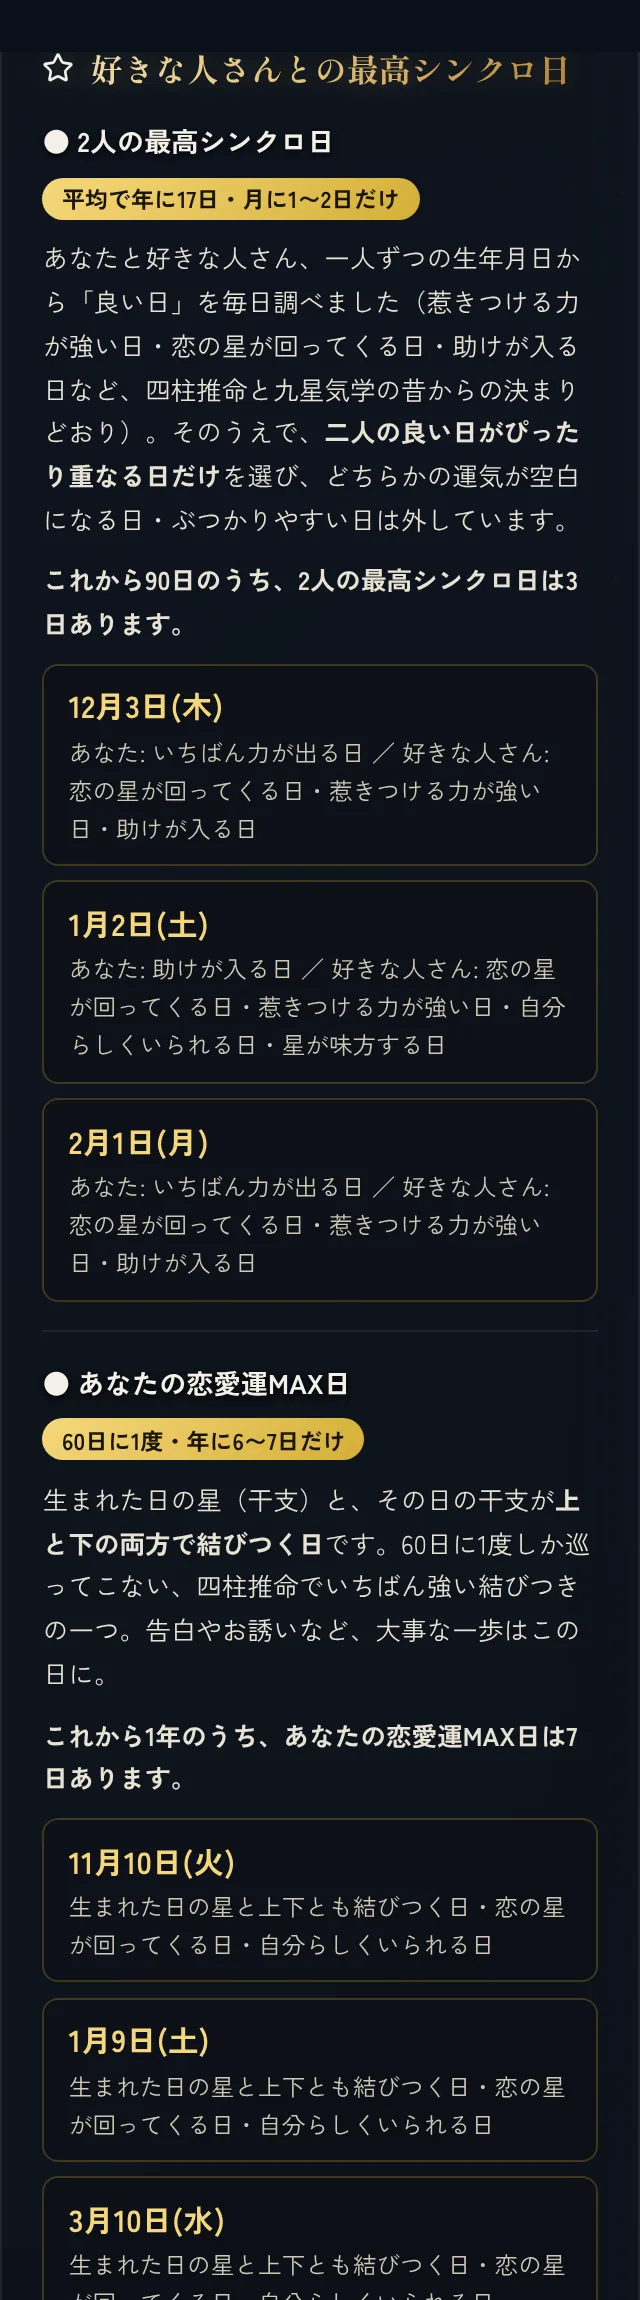
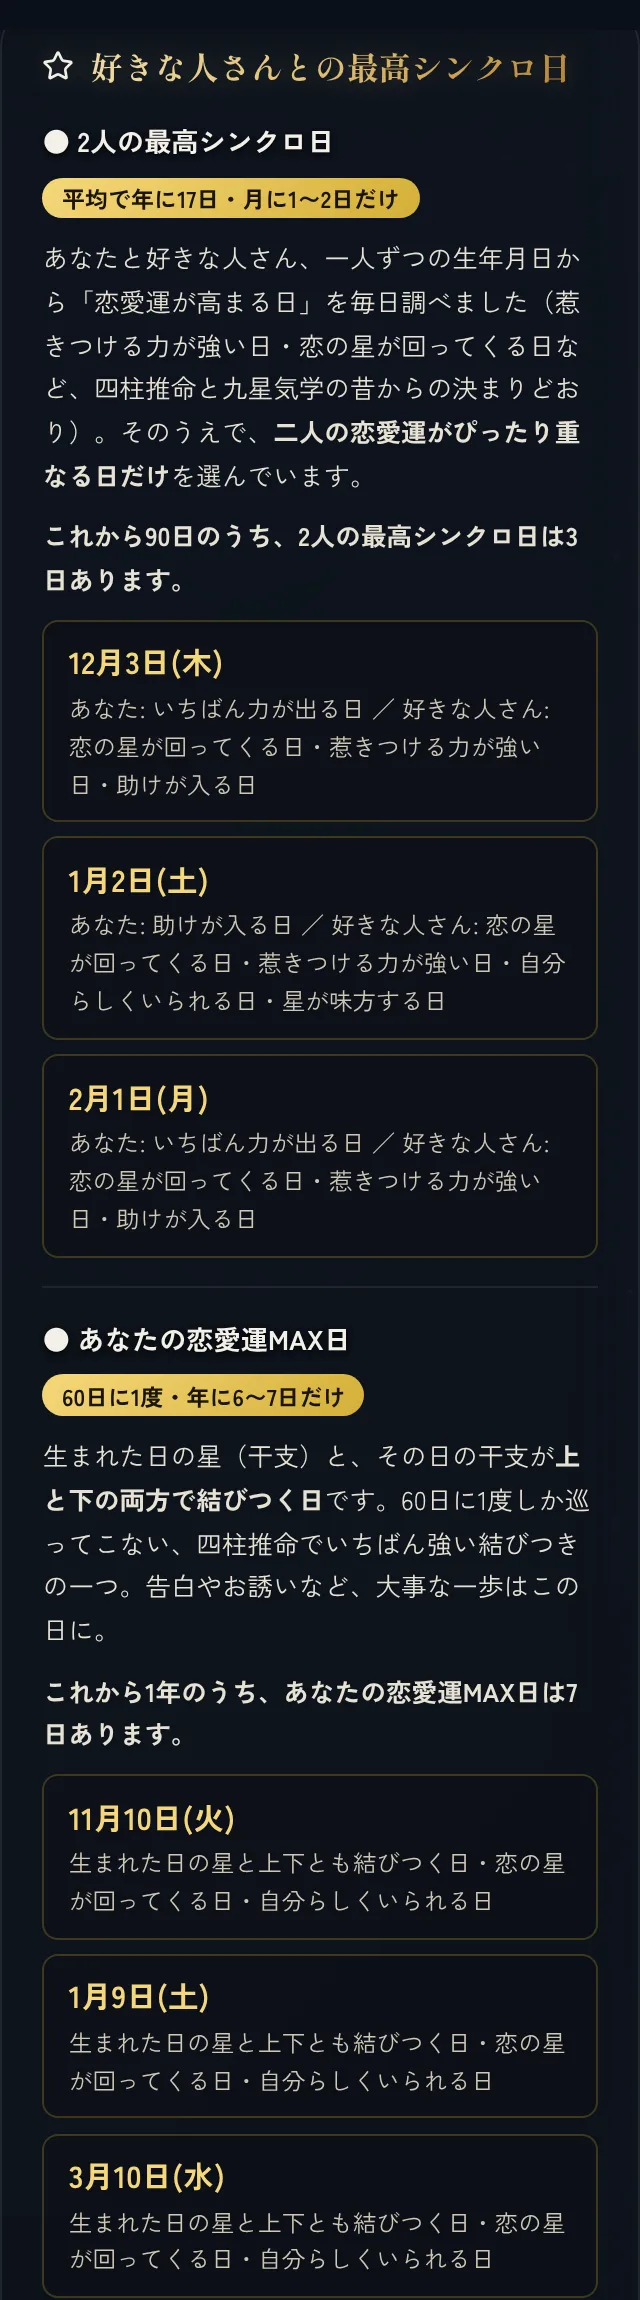
2人の最高シンクロ日の説明文の書き直し・ロック中は日付だけぼかす (#366)
* 最高シンクロ日の説明を短く: 「良い日」→「恋愛運が高まる日」、注意の日の一文と「助けが入る日」を削除

Claude-Session: https://claude.ai/code/session_019582yE7YoTRSL4sTdXJpa4

* 最高シンクロ日: 2人の説明文を書き直し・「昔からの決まりどおり」削除・ロック中は日付だけぼかして理由を見せる・「助けが入る日」を一覧から外す

Claude-Session: https://claude.ai/code/session_019582yE7YoTRSL4sTdXJpa4

* 最高シンクロ日: 日付の下の理由を気分が上がる言い方のタグに（魅力が全開・恋の星が輝く など）

Claude-Session: https://claude.ai/code/session_019582yE7YoTRSL4sTdXJpa4

---------

diff --git a/src/components/LuckyDaysSection.tsx b/src/components/LuckyDaysSection.tsx
@@ -27,15 +27,31 @@ interface Props {
 }
 
 // 「上下とも結びつく日」は「惹きつける力」「心が通じやすい」を含むので、重ねて書かない
-const labelOf = (marks: LuckMark[] | undefined) => {
+const labelsOf = (marks: LuckMark[] | undefined): string[] => {
   const list = marks || [];
-  const shown = list.includes('tentoku') ? list.filter((k) => k !== 'kango' && k !== 'shigo') : list;
-  return shown.map((k) => LUCK_MARK_LABELS[k]).join('・');
+  // 「助けが入る」は長いので出さない（2026-11-06 TAKASHI）。日の選び方には使う
+  const shown = (list.includes('tentoku') ? list.filter((k) => k !== 'kango' && k !== 'shigo') : list).filter((k) => k !== 'tenotsu');
+  return shown.length > 0 ? shown.map((k) => LUCK_MARK_LABELS[k]) : ['運気が追い風'];
 };
 
+const chipStyle: React.CSSProperties = {
+  fontSize: '0.72rem', fontWeight: 'bold', color: '#f5d77a', lineHeight: 1.4,
+  border: '1px solid rgba(245, 215, 122, 0.55)', background: 'rgba(212, 175, 55, 0.12)',
+  borderRadius: '999px', padding: '0.12rem 0.55rem', whiteSpace: 'nowrap'
+};
+
+function Chips({ who, marks }: { who?: string; marks: LuckMark[] | undefined }) {
+  return (
+    <div style={{ display: 'flex', flexWrap: 'wrap', alignItems: 'center', gap: '0.3rem' }}>
+      {who && <span style={{ fontSize: '0.74rem', color: '#f3efe6', fontWeight: 'bold', marginRight: '0.15rem' }}>{who}</span>}
+      {labelsOf(marks).map((t) => <span key={t} style={chipStyle}>✦ {t}</span>)}
+    </div>
+  );
+}
+
 const rowStyle: React.CSSProperties = {
-  display: 'flex', flexDirection: 'column', gap: '0.2rem',
-  padding: '0.55rem 0.75rem', borderRadius: '8px',
+  display: 'flex', flexDirection: 'column', gap: '0.35rem',
+  padding: '0.6rem 0.75rem', borderRadius: '8px',
   background: 'rgba(11, 15, 21, 0.55)', border: '1px solid rgba(212, 175, 55, 0.25)'
 };
 const badgeStyle: React.CSSProperties = {
@@ -50,35 +66,36 @@ function DayList({ days, locked, showPair, myLabel, oppLabel, onLockClick, lockW
   onLockClick: (e?: React.MouseEvent) => void; lockWord: string;
 }) {
   if (days.length === 0) return null;
-  const shown = days.slice(0, locked ? 3 : 8); // ロック中は3行だけ（中身はダミー）
+  // ロック中も理由は見せ、日付だけぼかす（2026-11-06 TAKASHI）。日付はダミーの「●月●日」で、本当の日付は DOM に出さない
+  const shown = days.slice(0, locked ? 3 : 8); // ロック中は3行だけ
   return (
-    <div style={{ position: 'relative' }}>
-      <div style={{
-        display: 'flex', flexDirection: 'column', gap: '0.45rem',
-        filter: locked ? 'blur(4.5px)' : 'none', userSelect: locked ? 'none' : 'auto', opacity: locked ? 0.65 : 1
-      }}>
-        {shown.map((x, i) => (
-          <div key={locked ? i : `${x.day.y}-${x.day.m}-${x.day.d}`} style={rowStyle}>
-            <span style={{ fontSize: '0.95rem', fontWeight: 'bold', color: '#f5d77a' }}>
-              {locked ? '●月●日(●)' : formatLuckyDate(x.day)}
-              {!locked && x.sango && <span style={{ ...badgeStyle, marginLeft: '0.5rem', fontSize: '0.68rem' }}>{LUCK_MARK_LABELS.sango}</span>}
-            </span>
-            <span style={{ fontSize: '0.74rem', color: '#cfc7b4', lineHeight: 1.6 }}>
-              {locked
-                ? '●●●●●●●●・●●●●●●●'
-                : showPair
-                  ? `${myLabel}: ${labelOf(x.me) || 'おだやかな日'} ／ ${oppLabel}: ${labelOf(x.partner) || 'おだやかな日'}`
-                  : labelOf(x.me)}
-            </span>
-          </div>
-        ))}
-      </div>
-      {locked && (
-        <div className="premium-lock-overlay" style={{ borderRadius: '8px' }} data-paid-lock onClick={onLockClick}>
-          <button type="button" className="premium-lock-tag" data-paid-lock onClick={onLockClick}>
-            {lockWord}
-          </button>
+    <div style={{ display: 'flex', flexDirection: 'column', gap: '0.45rem' }}>
+      {shown.map((x, i) => (
+        <div
+          key={locked ? i : `${x.day.y}-${x.day.m}-${x.day.d}`}
+          style={{ ...rowStyle, cursor: locked ? 'pointer' : 'auto' }}
+          {...(locked ? { 'data-paid-lock': true, onClick: onLockClick } : {})}
+        >
+          <span style={{ fontSize: '0.95rem', fontWeight: 'bold', color: '#f5d77a', display: 'flex', alignItems: 'center', flexWrap: 'wrap' }}>
+            {locked
+              ? <span style={{ filter: 'blur(5px)', userSelect: 'none' }} aria-hidden="true">●月●日(●)</span>
+              : formatLuckyDate(x.day)}
+            {x.sango && <span style={{ ...badgeStyle, marginLeft: '0.5rem', fontSize: '0.68rem' }}>{LUCK_MARK_LABELS.sango}</span>}
+          </span>
+          {showPair ? (
+            <>
+              <Chips who={myLabel} marks={x.me} />
+              <Chips who={oppLabel} marks={x.partner} />
+            </>
+          ) : (
+            <Chips marks={x.me} />
+          )}
         </div>
+      ))}
+      {locked && (
+        <button type="button" className="premium-lock-tag" data-paid-lock onClick={onLockClick} style={{ alignSelf: 'center', marginTop: '0.2rem' }}>
+          {lockWord}
+        </button>
       )}
     </div>
   );
@@ -117,7 +134,7 @@ export function LuckyDaysSection({ result, isSubscribed, pairOpen = false, myNam
           <span style={subHead}>● 2人の最高シンクロ日</span>
           <span style={badgeStyle}>平均で年に17日・月に1〜2日だけ</span>
           <p style={bodyText}>
-            {myLabel}と{oppLabel}、一人ずつの生年月日から「良い日」を毎日調べました（惹きつける力が強い日・恋の星が回ってくる日・助けが入る日など、四柱推命と九星気学の昔からの決まりどおり）。そのうえで、<strong>二人の良い日がぴったり重なる日だけ</strong>を選び、どちらかの運気が空白になる日・ぶつかりやすい日は外しています。
+            {myLabel}と{oppLabel}の恋愛運の波が、<strong>同じ日にぴったり重なる日</strong>です。一人ずつの生年月日から恋愛運が高まる日を調べ、二人そろって上向く日だけを選びました。月に1〜2日しかない、二人だけの特別な日。デートのお誘いや気持ちを伝えるなら、この日に。
           </p>
           {hasSango && (
             <p style={{ ...bodyText, color: '#f5d77a' }}>

diff --git a/src/components/PremiumLPModal.tsx b/src/components/PremiumLPModal.tsx
@@ -27,7 +27,7 @@ const benefits = [
     shot: '/assets/premium/lucky-days.webp',
     shotAlt: '2人の最高シンクロ日とあなたの恋愛運MAX日の画面',
     pairNote: 'pairLucky',
-    body: '二人の生年月日から一人ずつの「良い日」を毎日調べ、二人の良い日がぴったり重なる日だけを選んだ「2人の最高シンクロ日」（平均で年に17日）と、60日に1度しか巡ってこない「あなたの恋愛運MAX日」の日付がわかります。告白やデートのお誘いは、この日に。'
+    body: '二人の生年月日から一人ずつの「恋愛運が高まる日」を毎日調べ、二人の恋愛運がぴったり重なる日だけを選んだ「2人の最高シンクロ日」（平均で年に17日）と、60日に1度しか巡ってこない「あなたの恋愛運MAX日」の日付がわかります。告白やデートのお誘いは、この日に。'
   },
   {
     Icon: Calendar,
@@ -567,7 +567,7 @@ export const PremiumLPModal: React.FC<PremiumLPModalProps> = ({
                   { who: 'ren', t: '惹かれ合うポイント ＆ 地雷行動 3選', shot: '/assets/premium/edu-hikare.webp', d: '二人の組み合わせだからこそ起きやすい、すれ違いのパターンがあります。先に知っておけば、避けられますよ。' },
                   { who: 'tsuki', t: '6つの相性グラフ ＆ 二人のこれから', shot: '/assets/premium/edu-radar.webp', d: '恋愛・会話・結婚・信頼などの相性と、関係が進みやすい時期。動くタイミングを、一緒に読んでいきましょうね。' },
                   { who: 'ren', t: 'そのまま送れるLINEキラーテンプレート', shot: '/assets/premium/edu-template.webp', d: `${pair.name}の性格に合わせた文例を用意しました。言葉に迷う夜は、そのまま使ってください。` },
-                  { who: 'ren', t: '2人の最高シンクロ日', shot: '/assets/premium/lucky-days.webp', d: `二人の良い日がぴったり重なる、平均で年に17日だけの日。${pair.name}への告白やお誘いを、いつにすればいいかがわかります。` },
+                  { who: 'ren', t: '2人の最高シンクロ日', shot: '/assets/premium/lucky-days.webp', d: `二人の恋愛運がぴったり重なる、平均で年に17日だけの日。${pair.name}への告白やお誘いを、いつにすればいいかがわかります。` },
                   { who: 'tsuki', t: '7日間の波から、10年先の二人の未来まで', shot: '/assets/premium/edu-future.webp', d: '明日からの7日間・月ごとの相性の波と、この先10年の年ごとの流れ。「大開運の年」や、結婚・同棲のような大きな決断に向いた時期も見えるので、先を見すえて動けますよ。（プレミアムプランで読めます）' }
                 ] as const).map((it) => (
                   <CharBubble key={it.t} who={it.who} small>

diff --git a/src/utils/luckyDays.ts b/src/utils/luckyDays.ts
@@ -29,14 +29,14 @@ export type LuckMark = 'tentoku' | 'kango' | 'shigo' | 'teio' | 'kenroku' | 'ten
 
 /** 画面に出す言い方（専門用語を使わない） */
 export const LUCK_MARK_LABELS: Record<LuckMark | 'sango', string> = {
-  tentoku: '生まれた日の星と上下とも結びつく日',
-  kango: '惹きつける力が強い日',
-  shigo: '心が通じやすい日',
-  teio: 'いちばん力が出る日',
-  kenroku: '自分らしくいられる日',
-  tenotsu: '助けが入る日',
-  love: '恋の星が回ってくる日',
-  seiki: '星が味方する日',
+  tentoku: '運命の星と結ばれる',
+  kango: '惹きつける力がピーク',
+  shigo: '心がつながりやすい',
+  teio: '魅力が全開',
+  kenroku: '素のままで輝ける',
+  tenotsu: '助けが入る',
+  love: '恋の星が輝く',
+  seiki: '星が背中を押す',
   sango: '二人の絆が完成する日'
 };
 const MARK_ORDER: LuckMark[] = ['tentoku', 'love', 'kango', 'shigo', 'tenotsu', 'teio', 'kenroku', 'seiki'];
